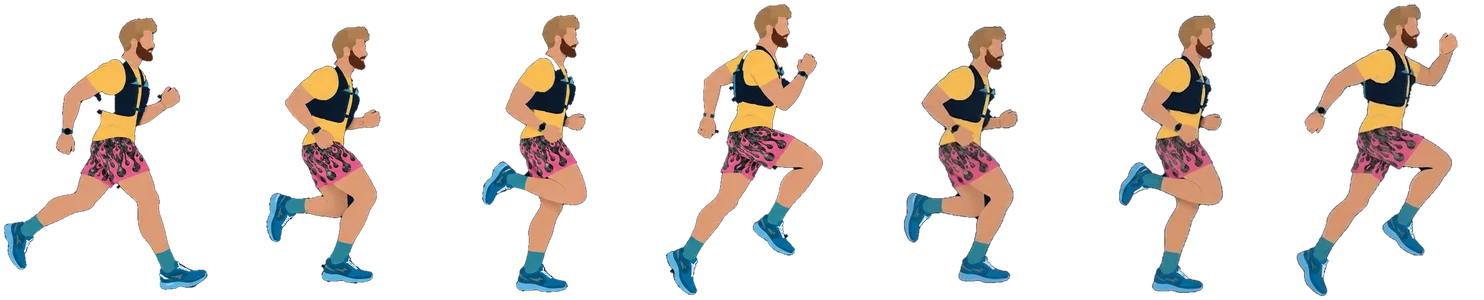
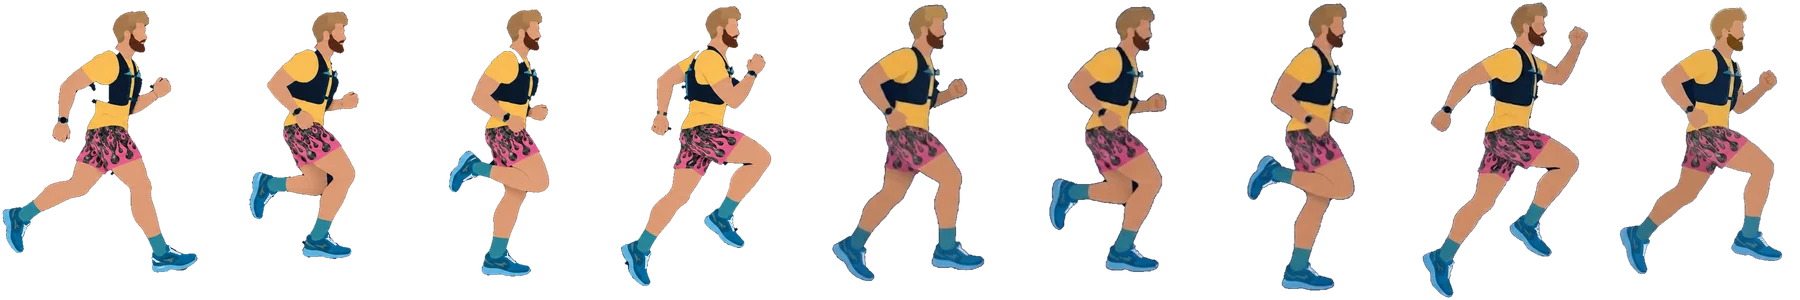
Smoother run scene: 9-frame stride, smooth bounce, code-drawn grid
Runner now uses 9 poses across two steps. The up-and-down bounce is animated smoothly instead of baked into each drawing. The grid floor is drawn on a canvas so it shows on every phone and rolls at the runner's pace.

Claude-Session: https://claude.ai/code/session_01WwrTvbQqMkmdezMiun6NmT

diff --git a/index.html b/index.html
@@ -95,23 +95,22 @@ footer i{width:8px;height:8px;border-radius:50%;background:var(--teal);display:b
 .scene .far{bottom:38%;height:60px;background-image:url(scene/skyline-far.svg);background-size:480px 60px;animation:far 48s linear infinite}
 .scene .near{bottom:38%;height:40px;background-image:url(scene/skyline-near.svg);background-size:560px 40px;animation:near 20s linear infinite}
 .scene .horizon{left:0;right:0;bottom:38%;height:2px;margin-bottom:-1px;background:#2E9BAD;box-shadow:0 0 10px #2E9BAD,0 0 2px #F6F4EF}
-.scene .floor{left:0;right:0;bottom:0;height:38%;perspective:140px;perspective-origin:50% 0;overflow:hidden;background:#0E1A2E}
-.scene .grid{position:absolute;left:-60%;right:-60%;top:0;height:260%;transform-origin:50% 0;transform:rotateX(62deg);
-  background:linear-gradient(rgba(46,155,173,.7) 2px,transparent 2px) 0 0/100% 30px,
-             linear-gradient(90deg,rgba(46,155,173,.55) 2px,transparent 2px) 50% 0/36px 100%;
-  animation:grid .3s linear infinite}
+.scene .floor{left:0;right:0;bottom:0;height:38%;overflow:hidden;background:#0E1A2E}
+.scene .grid{position:absolute;inset:0;width:100%;height:100%;display:block}
 .scene .floor::after{content:"";position:absolute;inset:0;background:linear-gradient(#0E1A2E 0%,transparent 45%)}
 .scene .shadow{left:50%;bottom:14px;width:84px;height:10px;margin-left:-42px;border-radius:50%;background:rgba(0,0,0,.45);filter:blur(2px)}
-.scene .runner{left:50%;bottom:14px;width:106px;height:150px;margin-left:-53px;
-  background:url(scene/runner.webp) 0 0/742px 150px no-repeat;animation:stride .6s steps(7) infinite}
+.scene .runner{left:50%;bottom:2px;width:100px;height:150px;margin-left:-50px;
+  background:url(scene/runner.webp) 0 0/900px 150px no-repeat;animation:stride .66s steps(9) infinite,bob .66s ease-in-out infinite}
 .scene::before,.scene::after{content:"";position:absolute;z-index:3;width:18px;height:18px;border:0 solid #2E9BAD}
 .scene::before{left:-1px;top:-1px;border-top-width:3px;border-left-width:3px}
 .scene::after{right:-1px;bottom:-1px;border-bottom-width:3px;border-right-width:3px}
-@keyframes stride{to{background-position:-742px 0}}
+@keyframes stride{to{background-position:-900px 0}}
+@keyframes bob{0%{transform:translateY(-.5px)}5.6%{transform:translateY(1px)}16.7%{transform:translateY(4px)}27.8%{transform:translateY(0)}
+  38.9%{transform:translateY(-4px)}50%{transform:translateY(1px)}61.1%{transform:translateY(4px)}72.2%{transform:translateY(0)}
+  83.3%{transform:translateY(-4px)}94.4%{transform:translateY(-2px)}100%{transform:translateY(-.5px)}}
 @keyframes far{to{background-position:-480px 100%}}
 @keyframes near{to{background-position:-560px 100%}}
 @keyframes slide{to{background-position:-520px 0}}
-@keyframes grid{to{background-position:0 30px,50% 0}}
 @media (prefers-reduced-motion:reduce){.scene *{animation:none!important}}
 /* Power-on: CRT line opens, then each piece boots in order */
 .boot{position:fixed;inset:0;z-index:20;pointer-events:none;background:var(--navy);animation:crt .7s cubic-bezier(.2,.8,.2,1) forwards}
@@ -142,7 +141,7 @@ h1.on{animation:on .5s steps(1) forwards,glitch 4.5s steps(1) 1.6s infinite;anim
 
   <div class="scene on" style="--i:1.5" role="img" aria-label="Cartoon Tristan running through a night city under a gold sun">
     <div class="stars"></div><div class="sun"></div><div class="far"></div><div class="near"></div>
-    <div class="floor"><div class="grid"></div></div><div class="horizon"></div>
+    <div class="floor"><canvas class="grid"></canvas></div><div class="horizon"></div>
     <div class="shadow"></div><div class="runner"></div>
   </div>
 
@@ -183,4 +182,25 @@ h1.on{animation:on .5s steps(1) forwards,glitch 4.5s steps(1) 1.6s infinite;anim
 
   <footer class="on" style="--i:13"><i></i>tristan.inmotion</footer>
 </main>
+<script>
+/* Grid floor: drawn each frame so the lines roll toward you at the speed the runner's feet push back */
+(function(){
+  var cv=document.querySelector('.scene .grid');if(!cv)return;
+  var ctx=cv.getContext('2d'),w=0,h=0,dpr=1,phase=0,last=0,on=true;
+  var still=window.matchMedia&&matchMedia('(prefers-reduced-motion: reduce)').matches;
+  var SPEED=3.2; /* depth units per second */
+  function size(){var r=cv.getBoundingClientRect();dpr=Math.min(window.devicePixelRatio||1,2);w=r.width;h=r.height;cv.width=Math.round(w*dpr);cv.height=Math.round(h*dpr);ctx.setTransform(dpr,0,0,dpr,0,0)}
+  function draw(){
+    ctx.clearRect(0,0,w,h);ctx.lineWidth=1.5;var cx=w/2,sp=w/7;
+    for(var k=-14;k<=14;k++){ctx.strokeStyle='rgba(46,155,173,.55)';ctx.beginPath();ctx.moveTo(cx,0);ctx.lineTo(cx+k*sp*1.6,h*1.6);ctx.stroke()}
+    for(var n=0;n<40;n++){var z=n+1-phase;if(z<0.85)continue;var y=h/z;if(y<1.5)break;
+      ctx.strokeStyle='rgba(46,155,173,'+Math.min(.85,.15+y/h*.8).toFixed(3)+')';ctx.beginPath();ctx.moveTo(0,y);ctx.lineTo(w,y);ctx.stroke()}
+  }
+  function tick(t){if(!on){last=0;return}if(last)phase=(phase+(t-last)/1000*SPEED)%1;last=t;draw();requestAnimationFrame(tick)}
+  size();draw();window.addEventListener('resize',function(){size();draw()});
+  if(still)return;
+  if('IntersectionObserver' in window){new IntersectionObserver(function(e){var v=e[0].isIntersecting;if(v&&!on){on=true;requestAnimationFrame(tick)}on=v}).observe(cv)}
+  requestAnimationFrame(tick);
+})();
+</script>
 </body></html>
